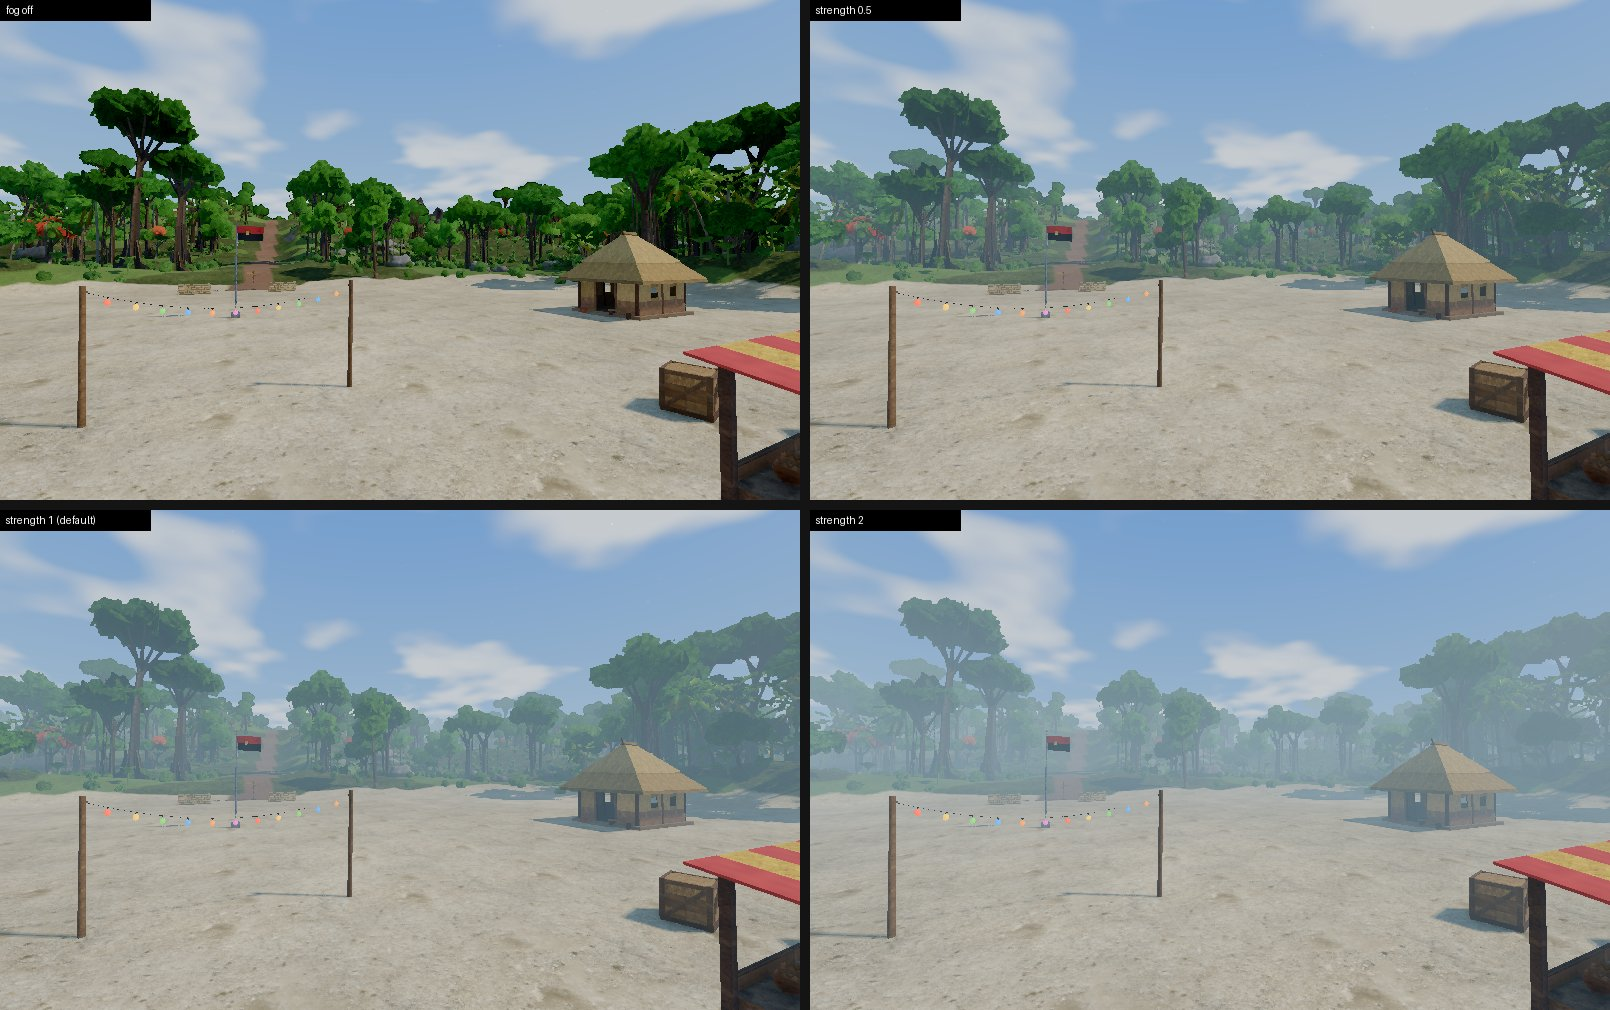
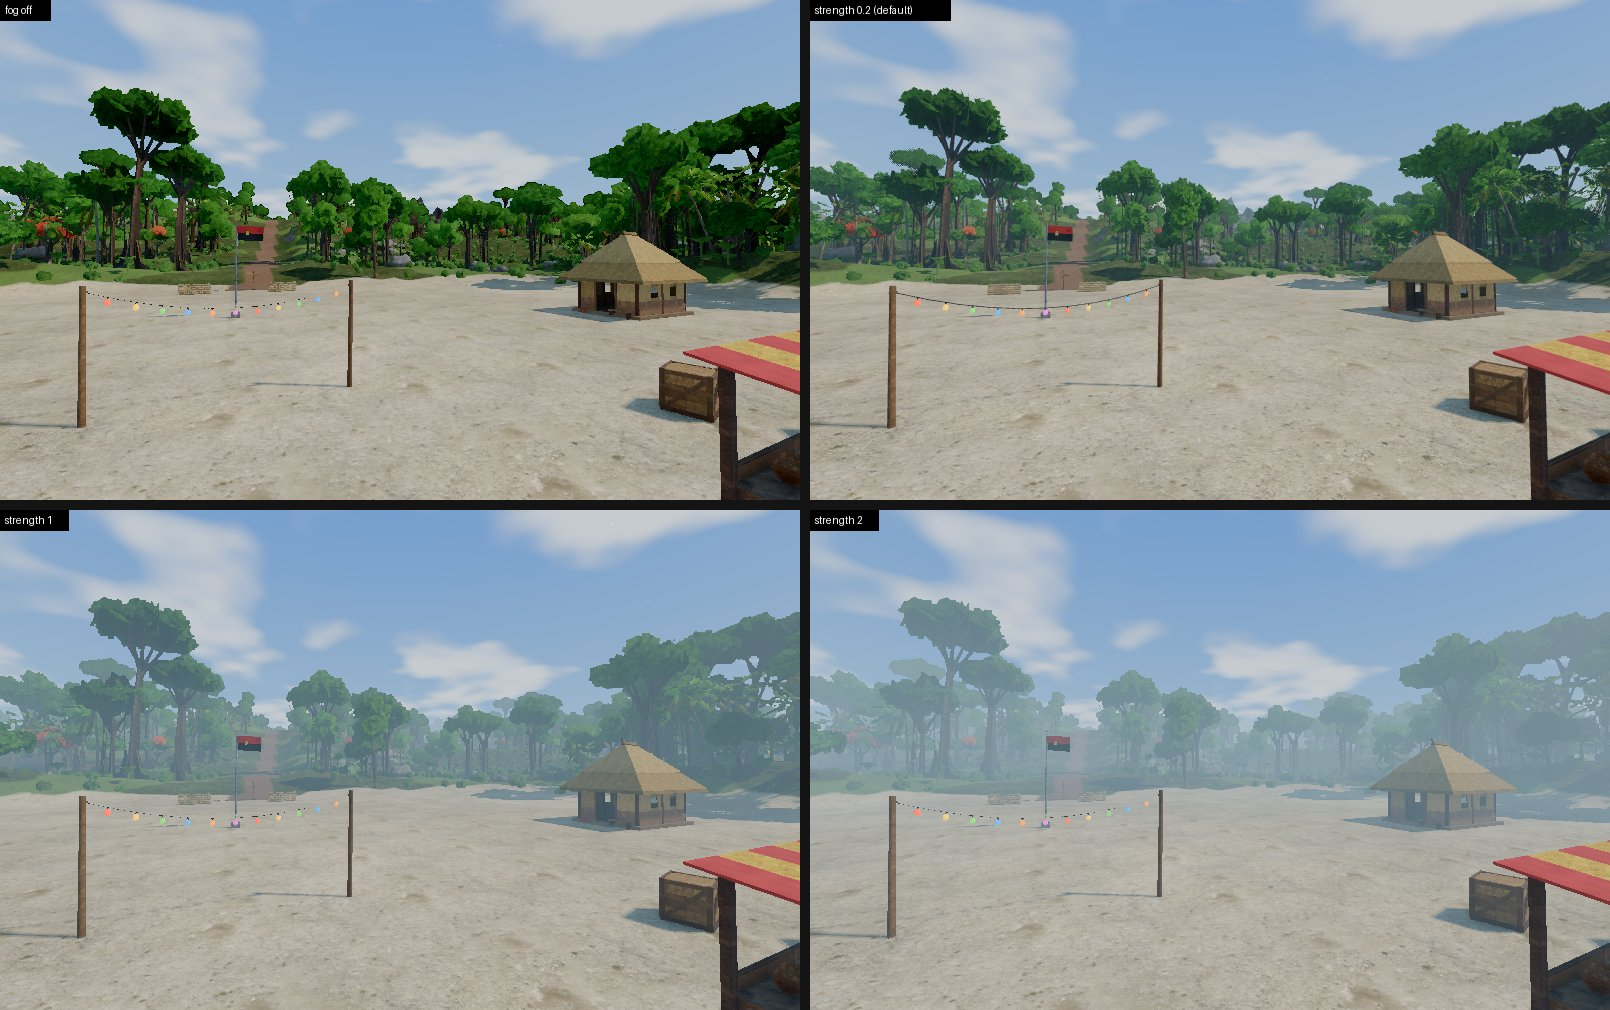
Fog strength 0.2 by default
FOG_STRENGTH (Haze.js) is the one default for the game settings, the Options
menu, F2 and the editor; the strength sliders go 0-2 in 0.01 steps. ?fog=1
gives the full environment.json look. PR images: before / 0.2 / 1.

diff --git a/src/game/ui/DebugPanel.js b/src/game/ui/DebugPanel.js
@@ -6,6 +6,7 @@
 // capture the mouse again); Esc still pauses, and the panel stays usable above the pause menu.
 import { LAYERS } from '../../engine/render/layers.js';
 import { GIProbeView } from '../../engine/render/GIProbeView.js';
+import { FOG_STRENGTH } from '../../engine/render/Haze.js';
 
 export class DebugPanel {
   constructor(app, perfOverlay) {
@@ -187,7 +188,7 @@ export class DebugPanel {
     const L = this.app.world.lighting, game = this.app.game;
     const relight = () => L.setTimeOfDay(L.timeOfDay); // colours + time of day factors
     const setting = (key, apply) => ({
-      get v() { return game ? game.settings[key] ?? (key === 'fogStrength' ? 1 : true) : key === 'fogStrength' ? L.haze.strength : key === 'motes' ? L.motes.enabled : L.haze.enabled; },
+      get v() { return game ? game.settings[key] ?? (key === 'fogStrength' ? FOG_STRENGTH : true) : key === 'fogStrength' ? L.haze.strength : key === 'motes' ? L.motes.enabled : L.haze.enabled; },
       set v(x) { if (game) game.saveSettings({ [key]: x }); else apply(x); },
     });
     const env = (group, key, scale = 1) => ({
@@ -197,7 +198,7 @@ export class DebugPanel {
     const motes = (key) => ({ get v() { return L.env.motes[key]; }, set v(x) { L.env.motes[key] = x; L.motes.setConfig(L.env.motes); } });
     const f = gui.addFolder('Fog & haze');
     f.add(setting('fog', (x) => L.haze.setEnabled(x)), 'v').name('fog (haze + far fog)').listen();
-    f.add(setting('fogStrength', (x) => L.haze.setStrength(x)), 'v', 0, 3, 0.05).name('strength').listen();
+    f.add(setting('fogStrength', (x) => L.haze.setStrength(x)), 'v', 0, 2, 0.01).name('strength').listen();
     f.add(env(null, 'fogDensity', 1000), 'v', 0, 6, 0.05).name('far fog (‰)');
     const fh = f.addFolder('Near haze');
     fh.add(env('haze', 'density', 1000), 'v', 0, 20, 0.1).name('density (‰ per m)');

diff --git a/src/game/Game.js b/src/game/Game.js
@@ -19,6 +19,7 @@ import { Missions } from './missions/Missions.js';
 import { Dialogue } from './missions/Dialogue.js';
 import { Vehicles } from './vehicles/Vehicles.js';
 import './entities/index.js';
+import { FOG_STRENGTH } from '../engine/render/Haze.js';
 
 const SAVE_KEY = 'minicry.save.v1';
 const SETTINGS_KEY = 'minicry.settings.v1';
@@ -56,7 +57,7 @@ export class Game {
     this.inventory = new Set();
     this.reinforcements = new Map(); // group -> pending count
     this.zonesInside = new Set();
-    this.settings = { quality: this.engine.quality, sensitivity: 1, volume: 0.8, music: 0.5, voices: true, voiceVolume: 1, difficulty: 'normal', fov: 72, invertY: false, ao: true, flare: true, fog: true, fogStrength: 1, motes: true, antialias: 'auto', ssr: 'off', fpsLimit: app.debugMode ? 60 : 0, ...(app.debugMode ? {} : loadJSON(SETTINGS_KEY)) };
+    this.settings = { quality: this.engine.quality, sensitivity: 1, volume: 0.8, music: 0.5, voices: true, voiceVolume: 1, difficulty: 'normal', fov: 72, invertY: false, ao: true, flare: true, fog: true, fogStrength: FOG_STRENGTH, motes: true, antialias: 'auto', ssr: 'off', fpsLimit: app.debugMode ? 60 : 0, ...(app.debugMode ? {} : loadJSON(SETTINGS_KEY)) };
     // frame rate cap (debug panel, 0 = auto: one frame per display refresh; 60 in debug mode); ?fps=N overrides it
     const fps = params.get('fps');
     this.engine.maxFps = fps !== null ? Number(fps) || 0 : this.settings.fpsLimit;
@@ -643,7 +644,7 @@ export class Game {
   _applyFog() {
     const L = this.engine.lighting, s = this.settings;
     L.haze.setEnabled(s.fog !== false);
-    L.haze.setStrength(s.fogStrength ?? 1);
+    L.haze.setStrength(s.fogStrength ?? FOG_STRENGTH);
     L.motes.setEnabled(s.motes !== false);
   }
 

diff --git a/src/game/ui/Menus.js b/src/game/ui/Menus.js
@@ -1,4 +1,6 @@
 // Menus: main menu, pause, settings, death screen, full-screen map (with fast travel), end screen.
+import { FOG_STRENGTH } from '../../engine/render/Haze.js';
+
 const h = (tag, cls, parent, html) => {
   const e = document.createElement(tag);
   if (cls) e.className = cls;
@@ -112,7 +114,7 @@ export class Menus {
       <label>Ambient occlusion (SSAO) <input name="ao" type="checkbox" ${s.ao !== false ? 'checked' : ''}></label>
       <label>Sun lens flare <input name="flare" type="checkbox" ${s.flare !== false ? 'checked' : ''}></label>
       <label>Fog & haze <input name="fog" type="checkbox" ${s.fog !== false ? 'checked' : ''}></label>
-      <label>Fog strength <input name="fogStrength" type="range" min="0" max="3" step="0.05" value="${s.fogStrength ?? 1}"></label>
+      <label>Fog strength <input name="fogStrength" type="range" min="0" max="2" step="0.01" value="${s.fogStrength ?? FOG_STRENGTH}"></label>
       <label>Dust motes <input name="motes" type="checkbox" ${s.motes !== false ? 'checked' : ''}></label>
       <label>Water reflections (SSR) <select name="ssr">${[['off', 'off'], ['ultralow', 'ultra low'], ['low', 'low'], ['medium', 'medium'], ['high', 'high']].map(([q, l]) => `<option value="${q}" ${q === (s.ssr === true ? 'medium' : s.ssr || 'off') ? 'selected' : ''}>${l}</option>`).join('')}</select></label>
       <label>Difficulty <select name="difficulty">${DIFFICULTY_LABELS.map(([q, l]) => `<option value="${q}" ${q === s.difficulty ? 'selected' : ''}>${l}</option>`).join('')}</select></label>

diff --git a/src/engine/render/Haze.js b/src/engine/render/Haze.js
@@ -22,6 +22,9 @@
 // 2 m grid near the camera (32 m far away, where the fog barely changes across a triangle).
 import * as THREE from 'three';
 
+// player setting: x the optical depth of the haze and the far fog (Options menu, F2, ?fog=<strength>)
+export const FOG_STRENGTH = 0.2;
+
 export const HAZE_DEFAULTS = {
   haze: {
     density: 0.0045, // extinction per m at the base height (~19 % at 50 m)
@@ -106,7 +109,7 @@ export class Haze {
     this.time = 0;
     this.factor = 1; // time of day multiplier of the density (debug / tools)
     this.enabled = true;
-    this.strength = 1;
+    this.strength = FOG_STRENGTH;
     const p = typeof location !== 'undefined' ? new URLSearchParams(location.search).get('fog') : null;
     if (p !== null) { this.enabled = p !== '0'; if (+p > 0) this.strength = +p; }
   }
@@ -114,7 +117,7 @@ export class Haze {
   /** Player setting: fog (haze + far fog) on / off. */
   setEnabled(v) { this.enabled = !!v; this._apply(); }
 
-  /** Player setting: x the optical depth of the haze and of the far fog (1 = the environment's look). */
+  /** Player setting: x the optical depth of the haze and of the far fog (1 = environment.json at full). */
   setStrength(v) { this.strength = Math.max(0, Number(v) || 0); this._apply(); }
 
   setConfig(env) {
